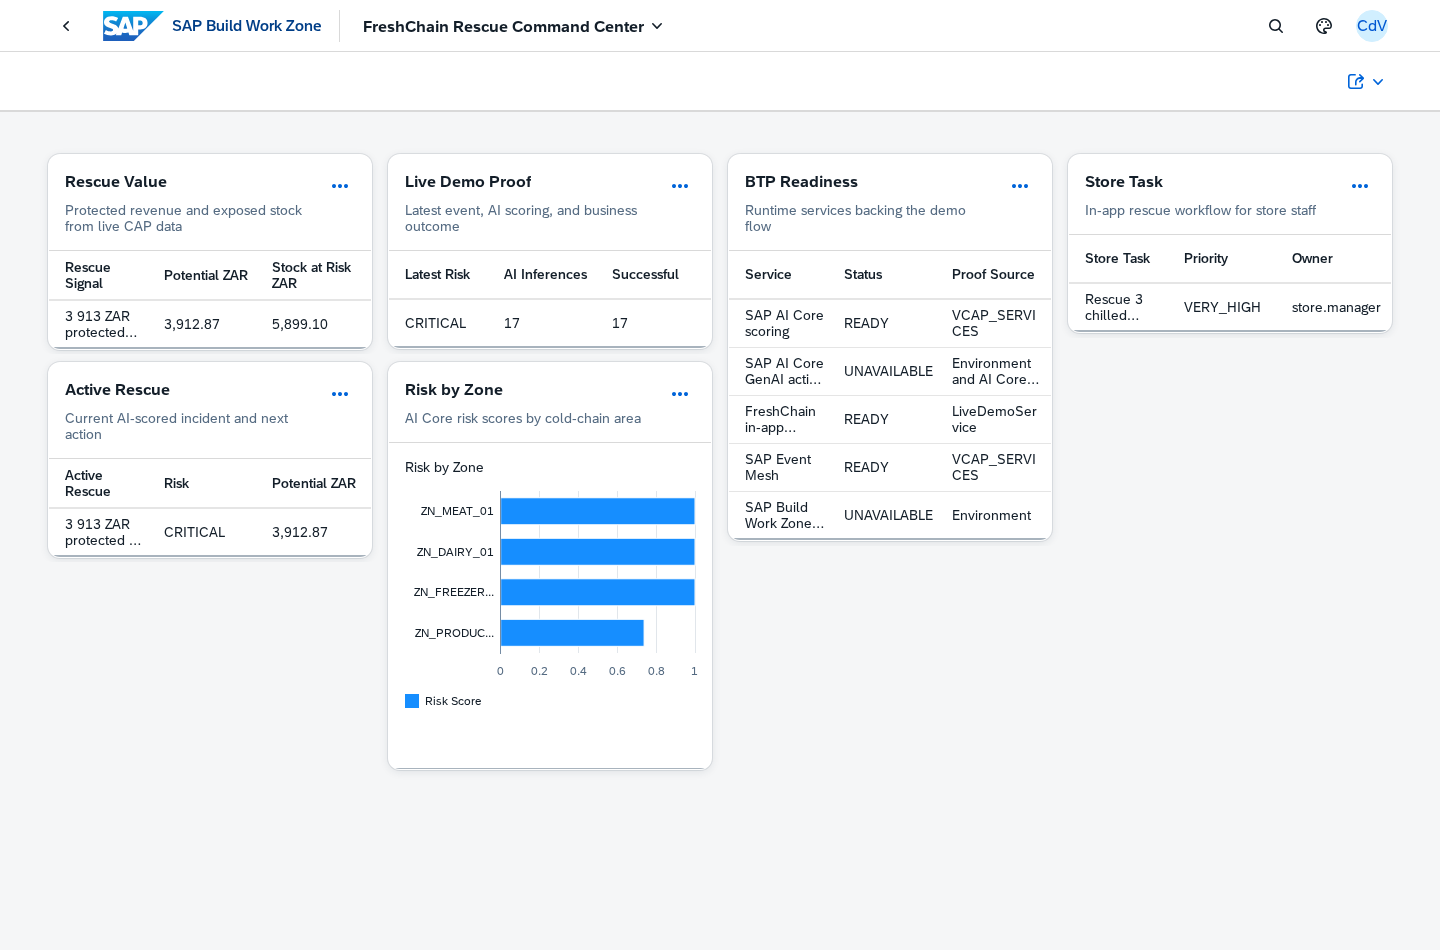
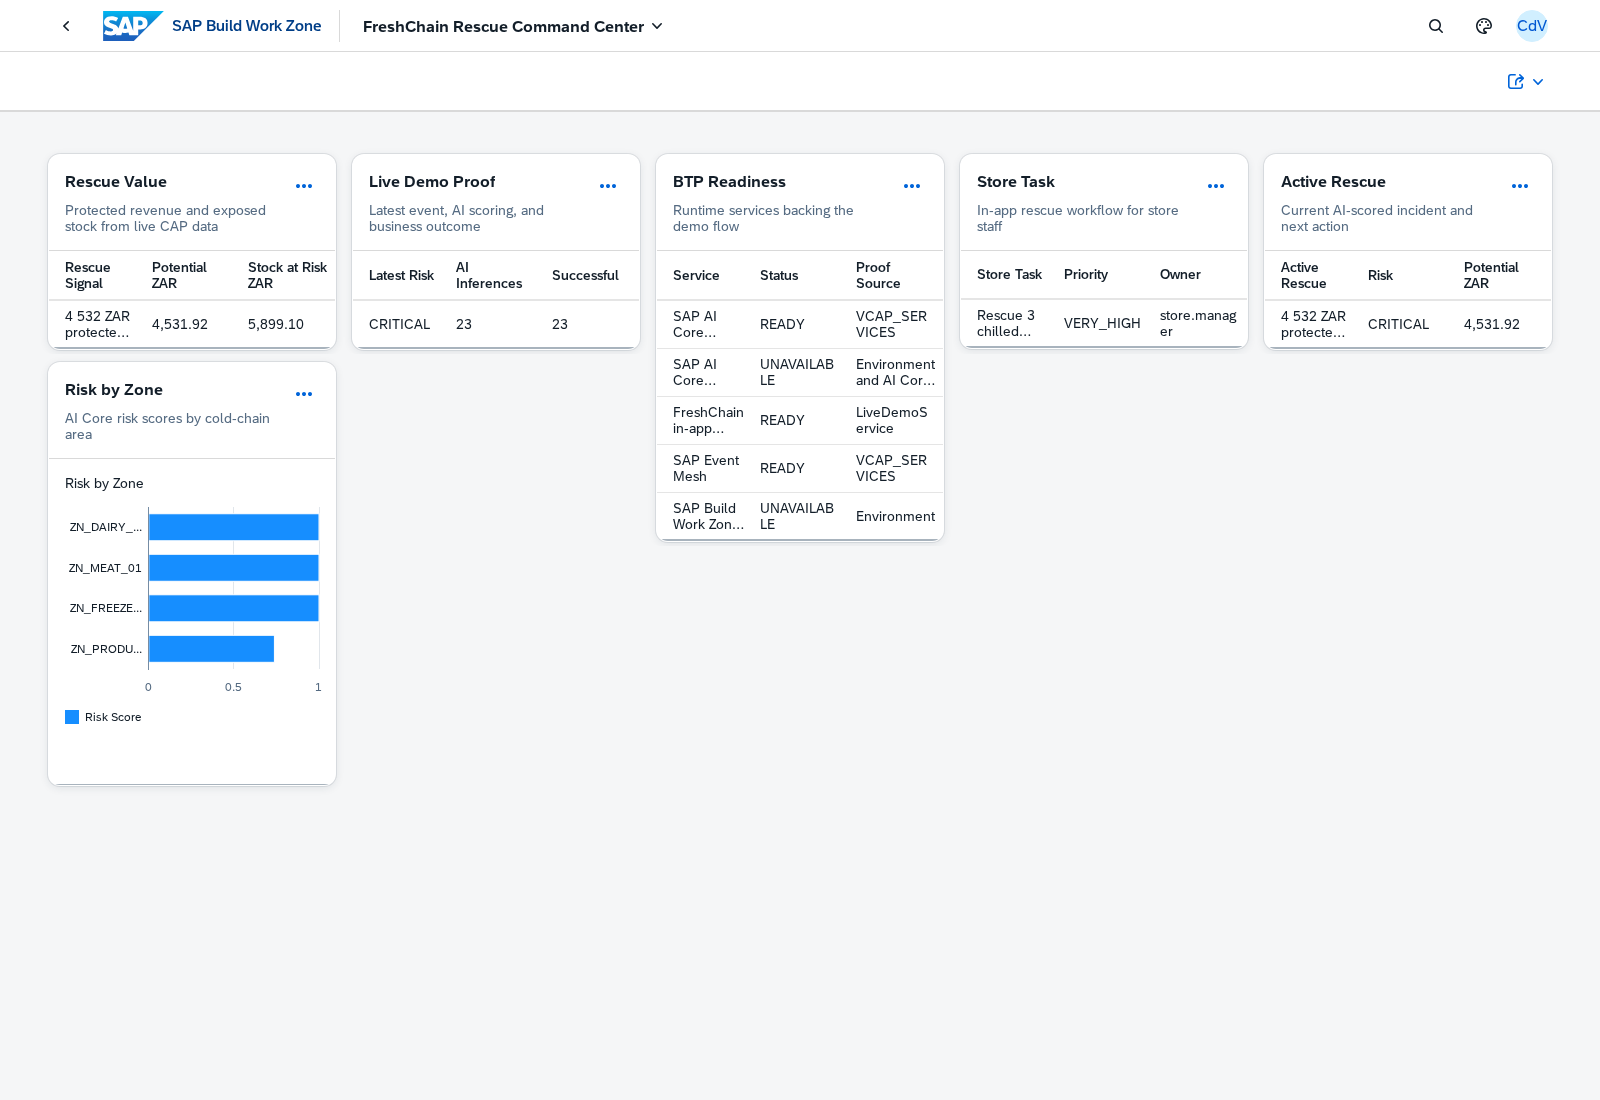
Document Work Zone app-host recovery

diff --git a/docs/FreshChain_Deployment_Setup_Guide.md b/docs/FreshChain_Deployment_Setup_Guide.md
@@ -341,6 +341,31 @@ The apps are:
 
 In Work Zone, add the HTML5 applications to the desired site/catalog/group according to your tenant's content management process. Use the app titles and semantic objects defined in each app manifest.
 
+For UI-only repairs, do not push a single HTML5 app folder to `freshchain-html5-repo-host` unless the intention is to replace the app-host content with only that app. The `cf html5-push -n freshchain-html5-repo-host ...` flow redeploys the supplied HTML5 application set. To preserve Work Zone launchability, push the complete FreshChain app set or use the MTA HTML5 content module while excluding database deployment.
+
+Post-upload check:
+
+```sh
+cf html5-list
+```
+
+Expected FreshChain apps under `freshchain-html5-repo-host`:
+
+- `freshchaincontroltower`
+- `freshchainoverview`
+- `freshchainoperations`
+- `freshchainintelligence`
+- `freshchainadmin`
+- `freshchainmonitoring`
+- `freshchainmasterdata`
+- `freshchainstores`
+- `freshchainareas`
+- `freshchainsensors`
+- `freshchainproducts`
+- `freshchainthresholds`
+- `freshchainimpactsettings`
+- `freshchainingestionerrors`
+
 ## 14. Validation Checklist
 
 ### 14.1 CAP and OData

diff --git a/docs/demo-guide/FreshChain_Hackathon_Demo_Guide.md b/docs/demo-guide/FreshChain_Hackathon_Demo_Guide.md
@@ -1,6 +1,6 @@
 # FreshChain Hackathon Judge Demo Guide
 
-_Last updated: 2026-06-17. Screenshots were refreshed after deploying the redesigned Rescue Cockpit to live SAP BTP._
+_Last updated: 2026-06-17. Screenshots were refreshed after restoring all HTML5 apps in the live SAP BTP HTML5 repository and validating the Work Zone launch paths._
 
 ## Prize-Winning Narrative
 FreshChain is not a dashboard of ambiguous cold-chain data. The demo shows a concrete store incident progressing from telemetry to AI decision, financial impact, assigned workflow, completed store action, and audit proof.
@@ -35,6 +35,8 @@ In the captured live run:
 **Button/path:** Open FreshChain Rescue Command Center.  
 **Say:** Show the executive view. Call out protected revenue, risk by zone, active rescue, store task, and BTP readiness as the first business signals.  
 **Concrete outcome:** This is the command-center view for an operations manager deciding where to intervene.
+
+**Live validation note:** The Work Zone-hosted app now loads from the managed HTML5 repository with real OVP cards: Rescue Value, Live Demo Proof, BTP Readiness, Store Task, Active Rescue, and Risk by Zone.
 
 ### 1:20-1:45 — Open FreshChain Rescue Cockpit and press Start
 ![Open FreshChain Rescue Cockpit and press Start](screenshots/03-live-demo-running.png)
@@ -120,19 +122,22 @@ In the captured live run:
 - When showing SAP AI Core, say that the app fails closed if AI Core cannot score. That is safer than fabricating risk numbers.
 - Do not spend time on master data apps. Mention them only as configuration support for stores, products, sensors, thresholds, and impact settings.
 - If judges ask whether it is real, point to Work Zone, deployed HTML5 apps, live BTP service bindings, and the persisted CAP evidence in the screenshots.
+- If a tile label still says `FreshChain Sense`, state plainly that the content item now launches the Rescue Cockpit and the stale label is a Work Zone page metadata issue, not a broken app.
 
 ## Defect / Shortcoming Log
 
 | Area | Observed issue | Impact on prize demo | Workaround for panel | Recommended fix |
 |---|---|---|---|---|
-| Work Zone first impression | Work Zone launches and shows FreshChain apps, but tiles are mostly static/blank and do not show dynamic KPI numbers. | The first screen proves BTP deployment, but does not itself communicate business value. | Spend less than a minute on Work Zone, then open Control Tower and Rescue Cockpit for value proof. | Configure Work Zone dynamic tiles/cards for protected revenue, stock at risk, rescue proof, and waste avoided. |
+| Work Zone first impression | Work Zone launches and shows FreshChain apps, but tiles are mostly static/blank and do not show dynamic KPI numbers. Control Tower confirms the `SAP Build Work Zone dynamic tiles` integration status is currently `UNAVAILABLE`. | The first screen proves BTP deployment, but does not itself communicate business value. | Spend less than a minute on Work Zone, then open Control Tower and Rescue Cockpit for value proof. | Configure the managed app base URL / Work Zone dynamic tile setup so protected revenue, stock at risk, rescue proof, and waste avoided appear before opening an app. |
 | Work Zone app naming | Content Manager now has a local `FreshChain Rescue Cockpit` app assigned to the `FreshChain Command` group and `Everyone` role, but the runtime home page still paints the old `FreshChain Sense` label until the site page/cache is refreshed. The tile launches the correct local app ID. | Judges may not immediately know this is the main live-action demo app. | Verbally introduce the stale-labelled tile as the Rescue Cockpit; the opened app title and runtime content are correct. | Republish/refresh the Work Zone site page so the home tile metadata catches up with the local content item. |
 | Business value scale | The cockpit now shows a single-incident proof plus a clearly-labelled 20-store extrapolation. The extrapolation is directional, not persisted chain-wide evidence. | Judges can understand upside, but may ask what is real versus assumed. | Say: “The R4,532 is persisted proof; the annualized panel is the business-case scenario using the same calculation.” | Later, populate estate-level KPIs from multi-store historical incidents instead of a demo assumption. |
+| HTML5 app-host content | On 2026-06-17, the app-host was restored by pushing the full FreshChain HTML5 app set. `cf html5-list` showed all deployable apps under `freshchain-html5-repo-host` after the repair. | A partial app-host upload can make apps 404 even though tiles still appear. | Use the current live tenant, where Control Tower, Rescue Cockpit, Act, Predict, Prove, and Monitor were validated from Work Zone. | When doing UI-only deployments, push the complete HTML5 app set or use the MTA content module without redeploying the DB module. |
 | Operations/Prove depth | Operations, Prove, Monitoring, and Ingestion Errors show useful Fiori surfaces, but the strongest story is still in the Live Demo cockpit. | Secondary apps can feel like supporting lists rather than dramatic action screens. | Keep these screens short and only use them as traceability proof. | Add clearer default filters, object titles, and value-focused columns for panel-ready screenshots. |
 | Headless Work Zone screenshots | Work Zone loads the Rescue Cockpit iframe and app resources, but headless screenshots intermittently paint only the iframe header while the DOM and app text are present. | Presentation screenshots of detailed cockpit steps are captured from a temporary shell instead of Work Zone chrome. | For the panel, open the cockpit manually from Work Zone; the app itself loads and actions are live. | Validate final manual browser run and, if needed, use native browser screenshots instead of headless capture. |
 
 ## Capture Notes
 - Work Zone screenshot was captured from: https://afsug-hackathon.launchpad.cfapps.eu20.hana.ondemand.com/site?siteId=97d11aec-866b-4a20-8f25-695b8927576e#Shell-home
-- Control Tower screenshot was captured from Work Zone.
+- Control Tower screenshot was captured from Work Zone after restoring the full HTML5 app-host content.
+- Work Zone launch paths validated on 2026-06-17: FreshChain Rescue Command Center, FreshChain Rescue Cockpit, FreshChain Act, FreshChain Predict, FreshChain Prove, and FreshChain Monitor.
 - Detailed Rescue Cockpit action screenshots were captured through a temporary local UI shell that proxied OData/actions to the live BTP `freshchain-srv`. This avoided a headless Work Zone iframe screenshot-painting issue; the backend actions and data are live BTP outcomes.
 - Do not commit or present auth files, service keys, or the temporary local proxy. Only the screenshots and this guide are intended presentation artifacts.